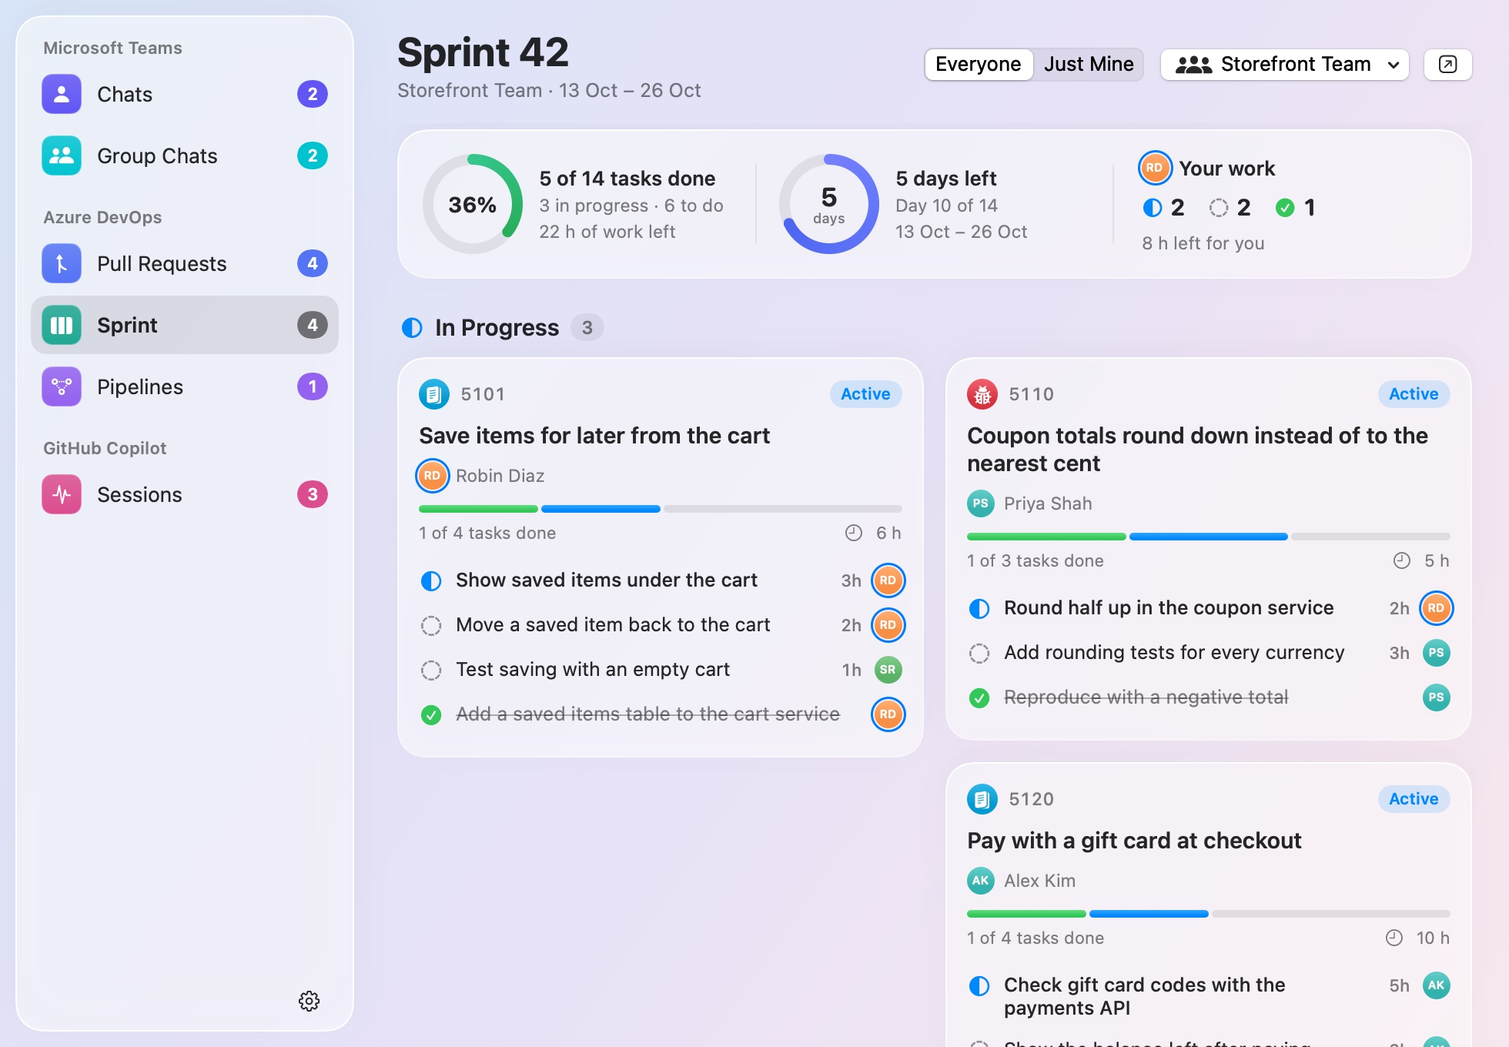
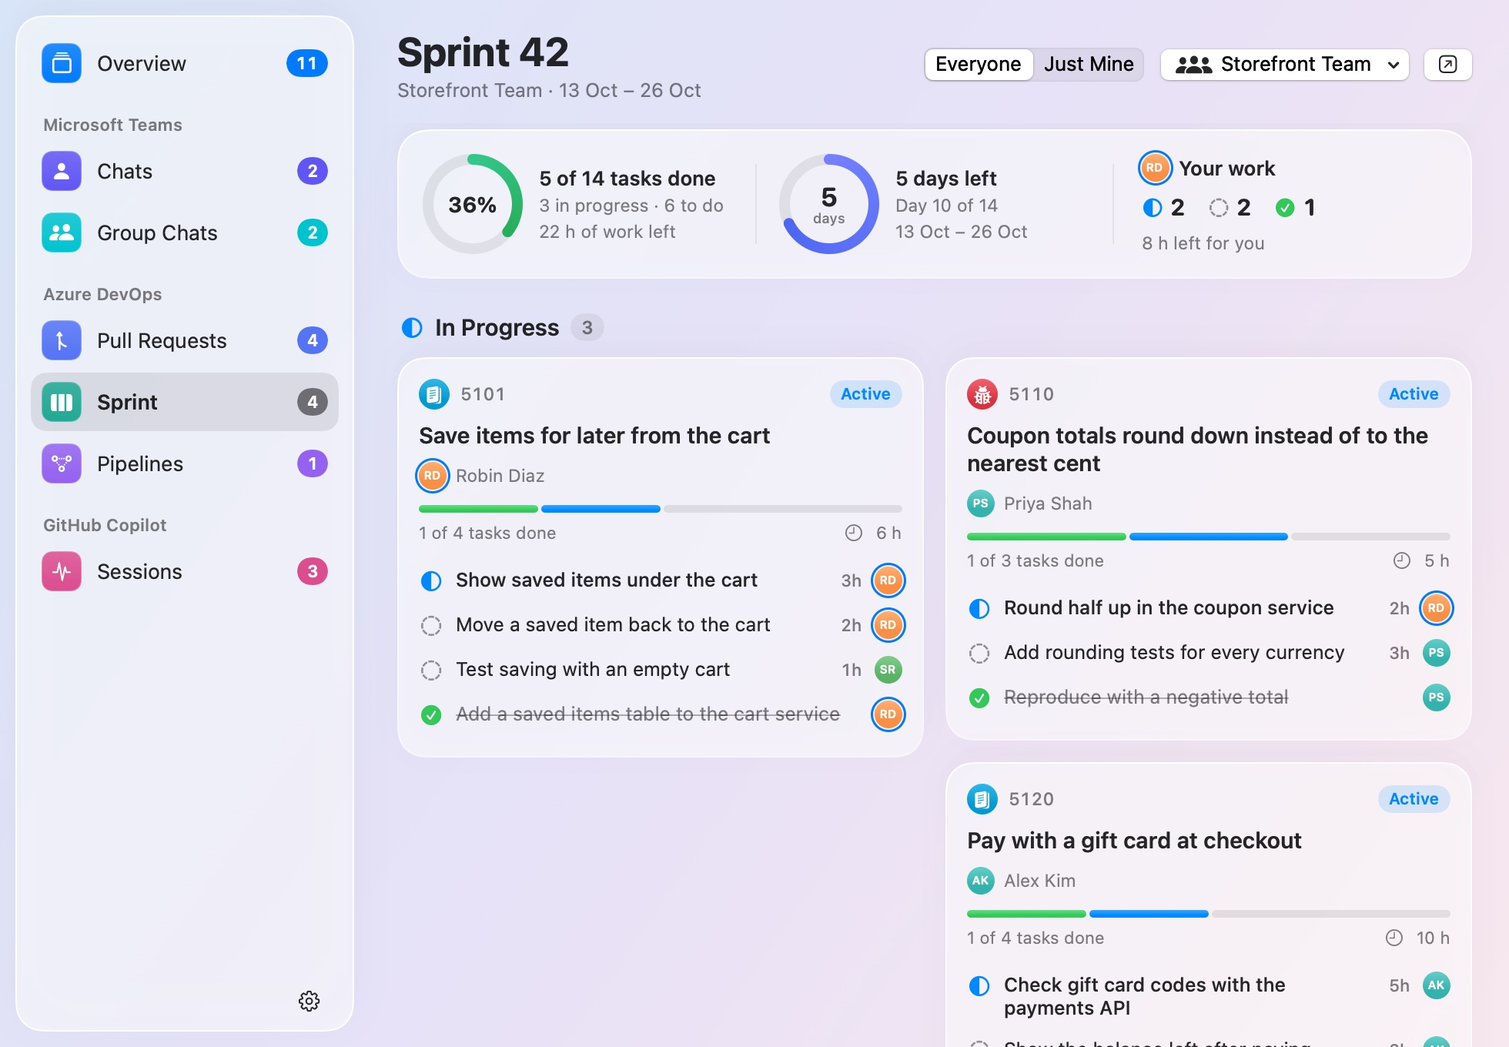
Describe counts by meaning, the list by state, the brief and the Overview
The README says what each state counts for each source, how an item
adds them up and lists everything by state, what goes into the brief
and when Apple Intelligence words it, and that the window opens on an
Overview, with an Overview widget that starts hidden. Its Settings,
Privacy and languages sections follow, and its pictures are drawn
again from today's demo: the menu bar, now with one item by meaning
and its list by state, and the window on its Overview instead of its
Pull Requests page.

How it works explains the states, an item's options, lists by state
and what they tell the sources, how the brief picks and words its
lines and what it keeps, and the Overview page and widget. The
CHANGELOG and CONTRIBUTING's rule on summaries follow.

diff --git a/README.md b/README.md
@@ -14,7 +14,10 @@ Every source is off until you turn it on, and each one first says what it reads.
 BriefBar brings Teams Pulse, ADO Pulse and Copilot Pulse together in one app: one install, one login
 item, and permissions that macOS grants once. Full Disk Access for Teams and notifications for Azure
 DevOps cover later sources too, but only the ones you turn on. Several sources can share a menu-bar
-item, a desktop widget or a window, and you can hide what you don't need.
+item, a desktop widget or a window, and you can hide what you don't need. An item they share can add
+their counts up by what they mean, ✋ needs you, ✕ something's wrong, ✓ done or ready, and list
+everything together by state under a brief of what matters; the window and a widget give you the same
+overview.
 
 <p align="center">
   <picture>
@@ -77,10 +80,12 @@ arranged in Settings:
   Pipelines start hidden there. Click one for its list.
 - **Desktop widgets** (Settings › Widgets): Azure DevOps' pull requests and Copilot each start with a
   widget, behind your windows or floating above them, in three sizes. Teams' widgets, Sprint and
-  Pipelines start hidden. Drag a widget by its header, and right-click it for its settings.
-- **Windows** (Settings › Windows): one BriefBar window with a page for every section, and a sidebar
-  with their counts. Open it with **Open in Window** from a list's gear menu or a widget's menu.
-  BriefBar shows a Dock icon while a window is open.
+  Pipelines start hidden, and so does the **Overview** widget: every source's counts, the brief's
+  first line and what needs you. Drag a widget by its header, and right-click it for its settings.
+- **Windows** (Settings › Windows): one BriefBar window, which opens on an **Overview** of everything
+  by state, with the brief, then has a page for every section, and a sidebar with their counts. Open
+  it with **Open in Window** from a list's gear menu or a widget's menu. BriefBar shows a Dock icon
+  while a window is open.
 
 Everywhere, you can put sections together, such as Azure DevOps with Copilot, or all of them in one
 item, widget or window, then give each its own again. Items that share sections show their counts side
@@ -88,6 +93,24 @@ by side, with a tab for each in the list. The list opens at the tab you looked a
 BriefBar restarts, and the first time at the one that needs you. You can also hide a section you don't
 need, such as Group Chats, from any of them: its source stays on, and shows wherever you didn't hide
 it. To move menu-bar items, hold ⌘ and drag them.
+
+A menu-bar item that shows several sections can instead add its counts up by what they mean, the same
+for every source: set its **Counts** to **By Meaning** in Settings › Menu Bar. With everything in one
+item, that's one ✋, one ✕ and one ✓ rather than nine symbols.
+
+| | Teams | Azure DevOps | Copilot |
+|---|---|---|---|
+| ✋ Needs you | Unread chats, 1:1 and group | Needs You, and To Review while it shows in the menu bar | Questions, plans and permission prompts |
+| ✕ Something's wrong | | Failing pull requests, failed pipelines | Sessions that stopped |
+| ✓ Done or ready | | Ready to complete | Finished sessions |
+| ⚡ Running | | Running pipelines | Running sessions |
+
+⚡ is off until you turn it on there. A source that can't show what it should, such as Teams without
+Full Disk Access or Azure DevOps without a sign-in, adds a small ⚠, and the item's tooltip says
+what's in each count. Its **List** can also show **Everything by State**: under a brief, what needs
+you, what's wrong, what's running, then what's done or ready, from every section, the newest first,
+each with the actions its own list has. Each item keeps its counts and its list as they were until you
+switch them.
 
 <p align="center">
   <picture>
@@ -98,8 +121,15 @@ it. To move menu-bar items, hold ⌘ and drag them.
 
 <p align="center">
   <picture>
-    <source media="(prefers-color-scheme: dark)" srcset="docs/images/window-azureDevOps.pullRequests-dark.jpg">
-    <img src="docs/images/window-azureDevOps.pullRequests-light.jpg" width="560" align="top" alt="The BriefBar window: a sidebar with Teams' Chats and Group Chats, Azure DevOps' Pull Requests, Sprint and Pipelines, and Copilot's Sessions, each with its count, open on the pull requests that need you, that you answered, that are failing or are ready to complete">
+    <source media="(prefers-color-scheme: dark)" srcset="docs/images/menubar-by-state-dark.png">
+    <img src="docs/images/menubar-by-state-light.png" width="420" alt="Every section in one menu-bar item, by meaning: 11 that need you, 3 wrong and 3 done or ready; its list is open, with a brief of five lines from Copilot, Teams and Azure DevOps, then everything that needs you, from every source, the newest first">
+  </picture>
+</p>
+
+<p align="center">
+  <picture>
+    <source media="(prefers-color-scheme: dark)" srcset="docs/images/window-overview-dark.jpg">
+    <img src="docs/images/window-overview-light.jpg" width="560" align="top" alt="The BriefBar window, open on its Overview: the brief, then everything that needs you from Teams, Azure DevOps and Copilot; the sidebar has the Overview, then Teams' Chats and Group Chats, Azure DevOps' Pull Requests, Sprint and Pipelines, and Copilot's Sessions, each with its count">
   </picture>
   &nbsp;
   <picture>
@@ -107,6 +137,26 @@ it. To move menu-bar items, hold ⌘ and drag them.
     <img src="docs/images/widget-all-medium-light.png" width="210" align="top" alt="One desktop widget showing Azure DevOps' pull requests and Copilot's sessions, one above the other">
   </picture>
 </p>
+
+## The brief
+
+A list by state and the window's Overview start with a brief, and the Overview widget with its first
+line: a few lines about what needs you, what's wrong and what's done or ready, from every source
+that has something to say, each opening its thing. BriefBar picks the lines, and says each in its
+own words. With Apple Intelligence, Apple's on-device model rewords those with something to
+condense, such as a chat or a review comment (✨), on your Mac, as it does for Azure DevOps' brief
+and Teams' summaries:
+
+- Teams' lines say who wrote and how many messages. What a message says shows only while **Show
+  Message Previews** is on, and the model reads a chat only while **Summarize with Apple
+  Intelligence** is on too.
+- Azure DevOps' lines condense a comment only while its **Summaries** setting is on.
+- Copilot's lines stay in BriefBar's own words.
+
+The model only words the lines BriefBar picked, and only while a list or the window shows them, never
+for the widget. Without Apple Intelligence (an Intel Mac, macOS 15, Apple Intelligence turned off or
+still getting ready), the brief stays in BriefBar's own words, without ✨, and Settings › Menu Bar says
+why.
 
 ## What each source shows
 
@@ -325,9 +375,11 @@ right-click menu of its widget), next to **Launch BriefBar at Login**, **Check f
 | | Show Context Usage | off by default: how full each session's context window is |
 
 In **Settings › Menu Bar**, **Widgets** and **Windows**, each section shows on its own, with others or
-not at all, and **Put All in One** and **Give Each Its Own** change them all at once. Each widget has
-its own **Position** (on the desktop or floating above windows) and **Size** (compact, medium or large),
-there and in its right-click menu.
+not at all, and **Put All in One** and **Give Each Its Own** change them all at once. A menu-bar item
+that shows several sections has **Counts**, **Side by Side** or **By Meaning** with the states it
+shows, and **List**, **A Tab for Each Section** or **Everything by State**. Each widget has its own
+**Position** (on the desktop or floating above windows) and **Size** (compact, medium or large), there
+and in its right-click menu, and Settings › Widgets turns on the **Overview** widget.
 
 ## Privacy
 
@@ -349,8 +401,9 @@ there and in its right-click menu.
   and chat, and when, never the messages, and only in memory, as it does which of those pull requests
   you've seen: nothing about them goes to its preferences or to disk, where other programs running
   as you could read it. It forgets them when you turn it off.
-- **Summaries are made on your Mac**, by Apple's on-device model, never Private Cloud Compute or any
-  other model, and are kept in memory only.
+- **Summaries and the brief are made on your Mac**, by Apple's on-device model, never Private Cloud
+  Compute or any other model, and are kept in memory only: the brief's, for ten minutes after its
+  line was last on screen. With **Show Message Previews** off, no message text goes into the brief.
 - **On disk**, it keeps Teams' unread chats (each chat's name, and its unread messages' sender and
   text), encrypted with a key in your login keychain, in a file only you can read, until they're
   read; which of your Azure DevOps pull requests you've seen, with each account, and your
@@ -358,9 +411,9 @@ there and in its right-click menu.
   deletes what it saved.
 - **Programs it runs**, such as the Azure CLI, never get its permissions: macOS would otherwise let
   them use BriefBar's Full Disk Access.
-- **Teams' widgets start hidden**: a widget puts your chats on the desktop, where anyone who sees your
-  screen, or your screen share, can read them. With **Show Message Previews** off, the widgets and
-  lists show only how many messages are new.
+- **Teams' widgets start hidden**, and so does the Overview widget: a widget puts your chats on the
+  desktop, where anyone who sees your screen, or your screen share, can read them. With **Show
+  Message Previews** off, the widgets and lists show only how many messages are new.
 - Its log never contains names, messages, titles or IDs.
 
 ## FAQ
@@ -419,8 +472,9 @@ flags.
 ### Which languages can it summarize?
 
 Those Apple's on-device model supports, which depend on your macOS version. For others it may still
-manage; if not, Teams says it can't summarize that language yet, and Azure DevOps shows no brief.
-Summaries and the brief need macOS 26 or later, and Apple Intelligence turned on in System Settings.
+manage; if not, Teams says it can't summarize that language yet, Azure DevOps shows no brief, and the
+brief across sources keeps BriefBar's own words. Summaries and the briefs need macOS 26 or later, and
+Apple Intelligence turned on in System Settings.
 
 ### Why isn't it notarized?
 

diff --git a/docs/how-it-works.md b/docs/how-it-works.md
@@ -161,11 +161,13 @@ sections each one shows, and the sections you've hidden from it.
   keeps neither, so it never moves yours.
 
 **Menu-bar items** show their sections' counts side by side, each drawn the way its source draws it,
-and their popover has a tab for each. It opens at the tab it showed last, whether it opened there or
-you switched to it, which each item keeps by its ID (`MenuBarTabs`, saved as `menuBarTabs`), so it
-outlasts a restart. When something opens it at a section, such as a notification about several pull
-requests, it shows that one, and opens there next time too. The first time, or once that tab is in
-another item, it opens at the first that needs you, or the first. Every tab is as wide as the
+or added up by meaning ([below](#everything-by-meaning)), and their popover has a tab for each, or
+one list by state. It opens at the tab it showed last, whether it opened there or you switched to it,
+which each item keeps by its ID (`MenuBarTabs`, saved as `menuBarTabs`), so it outlasts a restart.
+When something opens it at a section, such as a notification about several pull requests, it shows
+that one, and opens there next time too. The first time, or once that tab is in another item, it opens
+at the first that needs you, or the first. A list by state has no tabs: it shows every section's
+things, and leaves the tab the item opens at as it was. Every tab is as wide as the
 widest of the item's lists, and as tabs stop fitting, they get smaller, then become symbols with counts,
 then a menu. A popover opens from an invisible window over the item (`PopoverAnchor`), so it stays on
 the display you clicked: macOS moves an item's own window to whichever menu bar is active, and a click
@@ -180,11 +182,93 @@ size (`widgetOptions`). Widgets were once each source's own: the first time, Bri
 their settings and positions (`WidgetMigration`).
 
 **Windows** (`WindowHost`) have a page for each of their sections, with a sidebar of them by source,
-each with its count, and ⌘1 to ⌘9. A section's page is its list, filling the window
-(`PanelStyle.page`); a source can draw a page of its own instead. A window opens at the page of the
-list or widget you opened it from, and remembers the page you left it at. BriefBar is a menu-bar app
+each with its count, and ⌘1 to ⌘9. A window with several pages starts with an Overview
+([below](#the-overview)). A section's page is its list, filling the window (`PanelStyle.page`); a
+source can draw a page of its own instead. A window opens at the page of the list or widget you opened
+it from, or at its Overview when no page is asked for, and remembers the page you left it at. BriefBar is a menu-bar app
 (`LSUIElement`): while a window is open, it shows a Dock icon and the usual menus, and it goes back once
 they're all closed.
+
+## Everything by meaning
+
+### Counts by state
+
+Every section counts its things in four states that mean the same for every source (`ItemState` and
+`StateCounts` in `Sources/BriefBarCore`), mapped next to each source's own groups:
+
+| State | Teams (`UnreadState.states`) | Azure DevOps (`PRGroup.state`, `PipelineStatus.state`) | Copilot (`DisplayPhase.state`) |
+|---|---|---|---|
+| ✋ Needs you | Unread chats, 1:1 and group | Needs You; To Review only while **Show To Review in the Menu Bar** is on | Questions, plans and permission prompts |
+| ✕ Something's wrong | | Failing; failed pipelines | Stopped: interrupted, failed or not responding |
+| ⚡ Running | | Pipelines running or queued | Running |
+| ✓ Done or ready | | Ready to Complete | Done |
+
+What the menu bar doesn't count, such as an answered, waiting or idle pull request, an idle session or
+the sprint's work, is in no state. Each section reports its counts in `MenuBarSegment.states`, as it
+draws them: Azure DevOps reports none while it needs a sign-in. `--json` prints them by section, and
+`make demo-check` checks them, each section's and their sum.
+
+### An item by meaning
+
+A menu-bar item that shows several sections has options of its own (`MenuBarItemOptions`, saved as
+`menuBarItemOptions` by the item's ID, like a widget's): **Counts** side by side or by meaning, with
+the states it shows, and its **List**. They start as items always were, side by side with a tab per
+section, with ✋, ✕ and ✓ but not ⚡, and an item that goes away takes its options with it, so one
+that later gets its ID starts over. By meaning, the item draws one symbol and count per state, in
+Azure DevOps' and Copilot's colors (`MenuBarItemContent`), then a small ⚠ if a section can't show what
+it should (`MenuBarSegment.problem`, such as Teams without Full Disk Access). Its tooltip and VoiceOver
+say what's in each count: "Needs you: 2 chats, 2 group chats, 4 pull requests, 3 Copilot sessions"
+(`SectionInfo.counted`). With nothing to count, it shows BriefBar's own symbol.
+
+### Lists by state
+
+An item's list, the window's Overview and the Overview widget can show several sections' things
+together by state (`StateListModel`): Needs You, Something's Wrong, Running, then Done or Ready, each
+the newest first. Each source hands over the rows its own list draws (`stateRows`), with their actions
+and menus, and says when they change (`stateRowsChanged`), not only when their counts do. Only
+sections whose things can be in a state are in it (`SectionInfo.states`), so not the sprint, and the
+list reads them only while it's on screen. For the sources it's a viewer of its own
+(`SectionViewer.Kind.stateList`): Azure DevOps reads pipelines while it shows them, but doesn't count
+pull requests as seen there, since Answered isn't in it.
+
+### The brief
+
+The list by state and the Overview start with a brief (`Briefing.pick`): up to five lines, each
+source's most pressing first, so that it covers every source with something to say, then the newest
+of what's wrong and of what's done or ready if those aren't in it yet, then the most pressing of the
+rest. Most pressing is what needs you, then what's wrong, then what's done or ready, the newest first;
+what's running isn't in it. Each source says its lines in BriefBar's own words (`briefLines`), and
+says which, if any, Apple Intelligence may reword, by its own settings:
+
+- Teams says who wrote and how many messages (`SummaryPrompt.briefSentence`). What the newest says
+  goes in only while **Show Message Previews** is on, and the chat goes to the model, with the
+  instructions Teams' summaries use, only while **Summarize with Apple Intelligence** is on too. Once a
+  chat has its ✨ summary, the brief uses it.
+- Azure DevOps says each pull request as its own brief does (`Brief.item`), and a comment goes to the
+  model only while **Summaries** is on. A failed pipeline gets a sentence of its own.
+- Copilot says what a session waits for or how it ended (`SessionSnapshot.briefSentence`), without
+  the model.
+
+`BriefWriter` asks Apple Intelligence's on-device model (`SystemLanguageModel.default`, never Private
+Cloud Compute) for one line at a time, only for lines a list or the window shows, never in the
+background, and keeps what it writes in memory for ten minutes after the line was last on screen,
+never on disk or in the log. Without the model, or when it fails, a line keeps BriefBar's words, and
+the brief shows no ✨. `--render` keeps BriefBar's words, unless `BRIEFBAR_RENDER_SUMMARIES=1` makes it
+wait for the model.
+
+### The Overview
+
+A window with several pages starts with an Overview (`WindowPages`): the brief, then its pages'
+sections by state, in cards like the other pages'. It's ⌘1, with a count of what needs you in the
+sidebar, and the window opens on it when no page is asked for: from a menu-bar list's gear menu, from
+`--window`, or from Settings › Windows.
+
+The Overview widget (`OverviewWidgetHost`) sums up every section of the sources that are on: how many
+things are in each state, the brief's first line, then the newest of what needs you, each opening its
+thing. It isn't one of the layout's widgets, which show sections: it has options of its own
+(`OverviewWidgetOptions`, saved as `overviewWidget`), and starts hidden, like Teams' widgets, since it
+can show your chats. Being always on screen, it never asks the model for words: it shows the brief as
+a list or the window last had it worded.
 
 ## Microsoft Teams
 
@@ -644,13 +728,15 @@ about, and marks the pull request seen.
 
 ### The brief
 
-The brief picks, in code, the newest pull request that needs you, the newest failure and the newest
-one that's ready (then more of what needs you, up to three). Items about a comment go to Apple
-Intelligence's on-device model one at a time, with the commenter, the title and the comment, and
-come back as one sentence such as "Sam asks you to cap the backoff at 30 seconds on …". The others
-are plain sentences. Results are kept for as long as the app runs, never block the panel, and fall
-back to the plain sentence if the model isn't available or fails. BriefBar explicitly uses
-`SystemLanguageModel.default`: nothing goes to Private Cloud Compute or any other model.
+Azure DevOps' own brief, at the top of its list and its page, picks, in code, the newest pull
+request that needs you, the newest failure and the newest one that's ready (then more of what needs
+you, up to three). The brief across sources ([above](#the-brief)) says each pull request the same
+way. Items about a comment go to Apple Intelligence's on-device model one at a time, with the
+commenter, the title and the comment, and come back as one sentence such as "Sam asks you to cap the
+backoff at 30 seconds on …". The others are plain sentences. Results are kept for as long as the app
+runs, never block the panel, and fall back to the plain sentence if the model isn't available or
+fails. BriefBar explicitly uses `SystemLanguageModel.default`: nothing goes to Private Cloud Compute
+or any other model.
 
 ### Limits
 

diff --git a/CHANGELOG.md b/CHANGELOG.md
@@ -2,6 +2,21 @@
 
 ## Unreleased
 
+- **One count by meaning.** A menu-bar item that shows several sections can add their counts up by
+  what they mean, the same for every source: ✋ what needs you (unread chats, pull requests that need
+  you, Copilot's questions, plans and permission prompts), ✕ what's wrong, ✓ what's done or ready,
+  and ⚡ what's running if you turn it on. Choose it for each item under **Counts** in Settings › Menu
+  Bar; every item stays as it was until you do.
+- **Everything in one list, by state**, for such an item (**List** › **Everything by State**): what
+  needs you, what's wrong, what's running and what's done or ready, from every section, the newest
+  first, each with the actions its own list has.
+- **A brief across sources** at the top of that list and of the window's Overview: up to five lines,
+  from every source with something to say, each opening its thing. Apple Intelligence rewords the
+  ones with something to condense, on your Mac; without it, they stay in BriefBar's own words. Teams'
+  message text goes in only while **Show Message Previews** is on.
+- **An Overview**: the window's first page, which it opens on, and a new widget, hidden until you turn
+  it on in Settings › Widgets. The other widgets stay as they are.
+- `--json` prints each section's counts by state as well.
 - **Library validation is back on in BriefBar.** Sparkle, the updater, needs it off, so it now runs in
   an app of its own inside BriefBar, `Contents/Helpers/BriefBar Updater.app`, with none of BriefBar's
   permissions: BriefBar starts it responsible for itself, and ends it if macOS says otherwise. A copy of

diff --git a/CONTRIBUTING.md b/CONTRIBUTING.md
@@ -109,7 +109,7 @@ other data:
 | `BRIEFBAR_COPILOT_DIR` | Another Copilot data directory, such as `build/demo/copilot` |
 | `BRIEFBAR_AZ` | Another `az` |
 | `BRIEFBAR_CHAT_LINKS_DB` | Another Notification Center database for Azure DevOps' pull requests sent in chats, such as one the tests make, which needs no Full Disk Access |
-| `BRIEFBAR_RENDER_SUMMARIES=1` | `--render` summarizes Teams' unread chats first, with the on-device model |
+| `BRIEFBAR_RENDER_SUMMARIES=1` | `--render` summarizes Teams' unread chats first, and words the brief across sources, with the on-device model |
 
 With `--demo`, Teams and Copilot read only what these variables name, never your own data. Chats from
 Notification Center's own database are only ever saved by the installed app, with the key in the
@@ -180,7 +180,8 @@ log show --last 10m --info --predicate 'subsystem == "com.asaf.BriefBar"' --styl
   only because of them you've seen, stay in memory. `ChatLinkSettingsTests` checks that the
   preferences hold none of it.
 - **Summaries stay on the Mac.** Use `SystemLanguageModel.default`, through `OnDeviceModel`, never
-  Private Cloud Compute or any other model.
+  Private Cloud Compute or any other model. A brief across sources says a chat's text only while Teams
+  shows message previews, and asks the model only as each source's settings allow.
 - **No content in logs.** Log counts, states and errors, never names, messages, titles or IDs.
 - **Use made-up data.** Real chats, pull requests and sessions are private, and often confidential.
   Don't put them in tests, screenshots, issues or pull requests. `--diagnose` output is safe to share,
